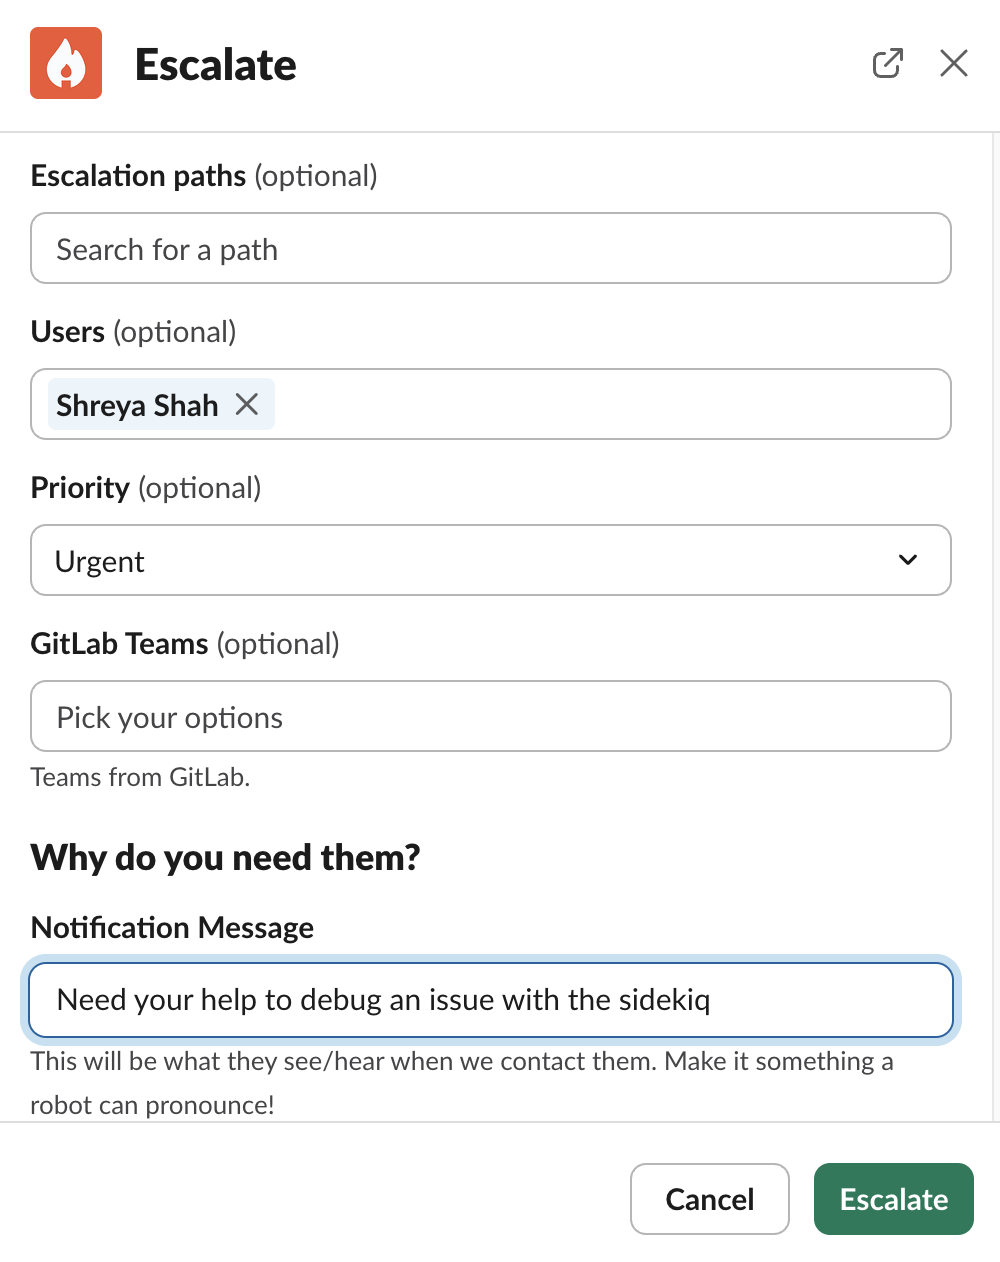
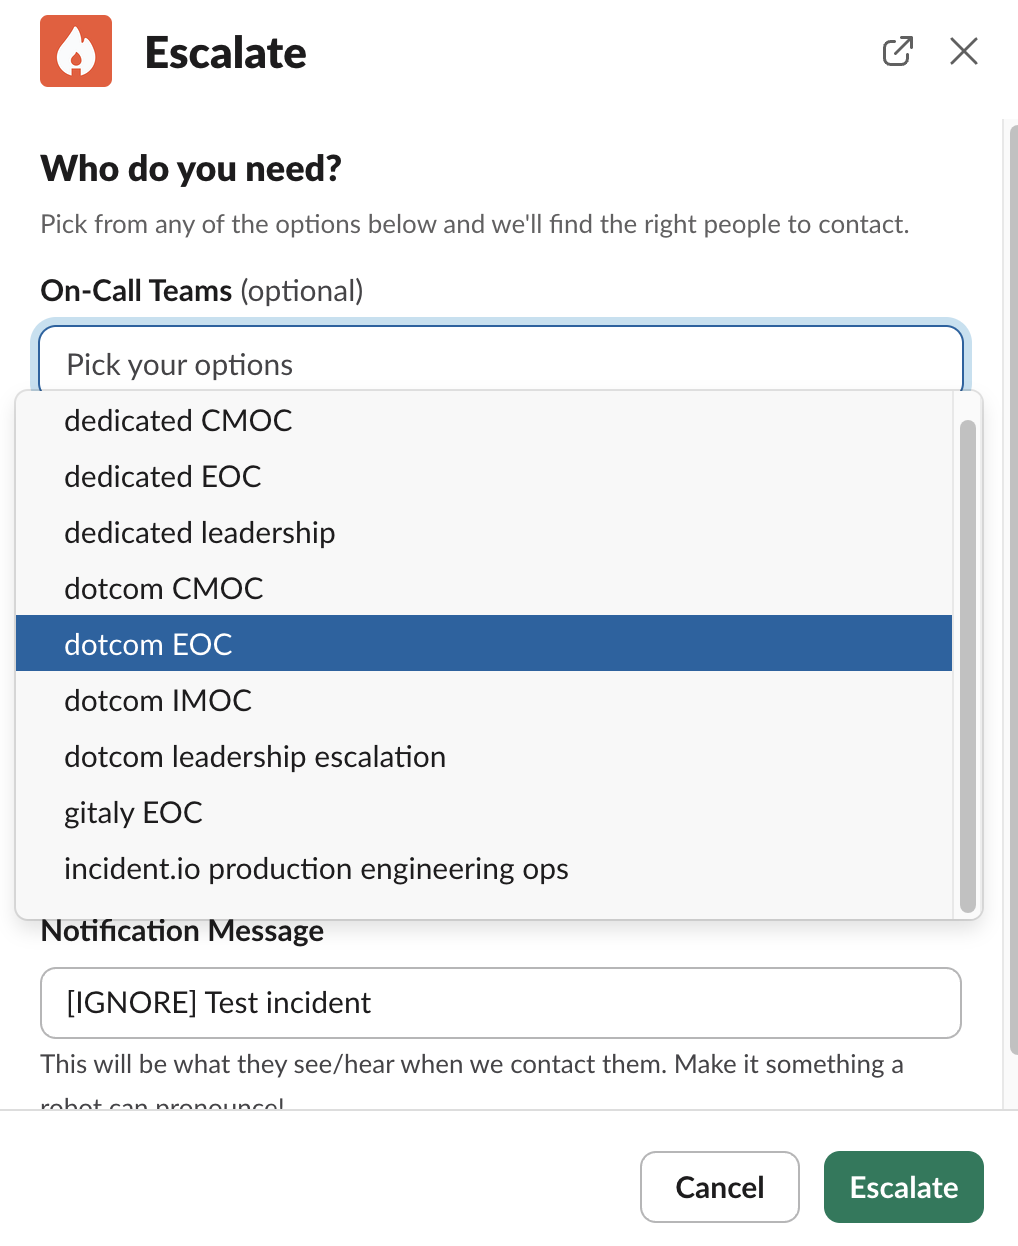
Added escalation steps

diff --git a/docs/incident-io-onboard/oncall.md b/docs/incident-io-onboard/oncall.md
@@ -55,13 +55,13 @@ As you work through an investigation, it is important to keep track of any ~"cor
 
 # Manual Escalation
 
-- These steps highlights the way to manually escalate to a team or individual during an incident
+- These steps highlights the way to manually escalate to a team or individual , CMOC , IMOC during an incident
 
 - From the incident channel once you wish to manually escalate to a team / individual , use the command `/inc escalate` , this should trigger an escalation form pop-up
 
 ![img](img/escalate.png)
 
-- Choose the team you wish to escalate to from the drop-down menu / the individual you wish to escalate to , you can enter an optional notification message you would wish for the responder to see
+- Choose the oncall team you wish to escalate to from the drop-down menu / the individual you wish to escalate to , you can enter an optional notification message you would wish for the responder to see
 
 **_Note- When escalating from a woodhouse generated Slack channel please mention the incident slack channel in the Notification Message_**
 
